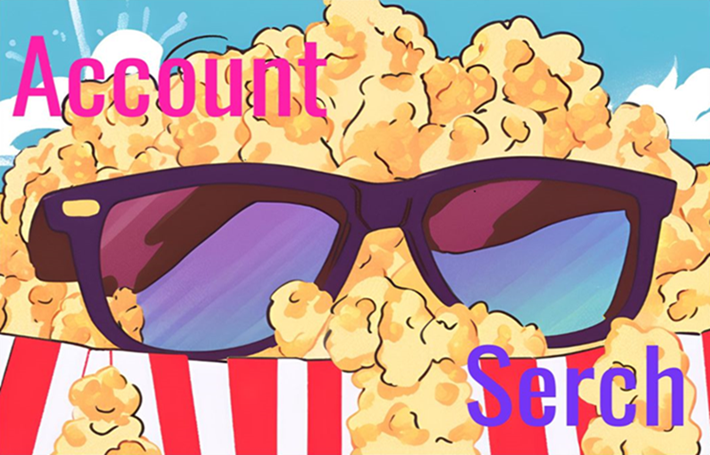
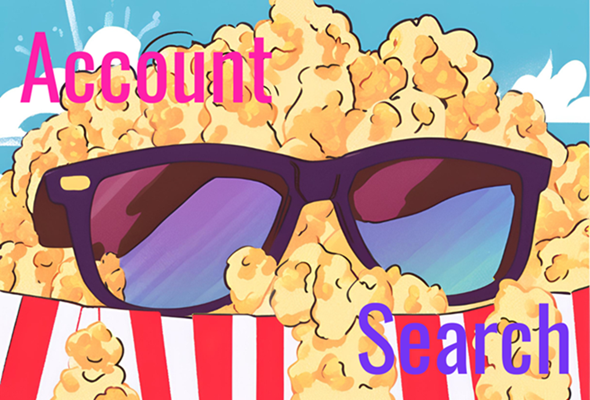
スペル変更

diff --git a/templates/toppage/toppage.html b/templates/toppage/toppage.html
@@ -13,7 +13,7 @@
     <!-- スライド（コンテンツ） -->
     <div id="slide" class="slide">
       <div>
-        <a href='{% url "movie:movie_search" %}'><img src="{% static 'img_folder/serch.png' %}" alt="検索画面"></a>
+        <a href='{% url "movie:movie_search" %}'><img src="{% static 'img_folder/search.png' %}" alt="検索画面"></a>
       </div>
       <div>
         <a href='{% url "mypage:mylist" %}'><img src="{% static 'img_folder/mylist.png' %}" alt="マイリスト画面"></a>

diff --git a/static/toppage.css b/static/toppage.css
@@ -31,7 +31,7 @@ li {
   height: 600px;
   position: absolute;
   overflow: hidden; /* はみ出したスライドを隠す */
-  top: 138px;
+  top: 120px;
 }
 /*  ↓ スライド（コンテンツ） */
 .slide { /*スライド全体 */
